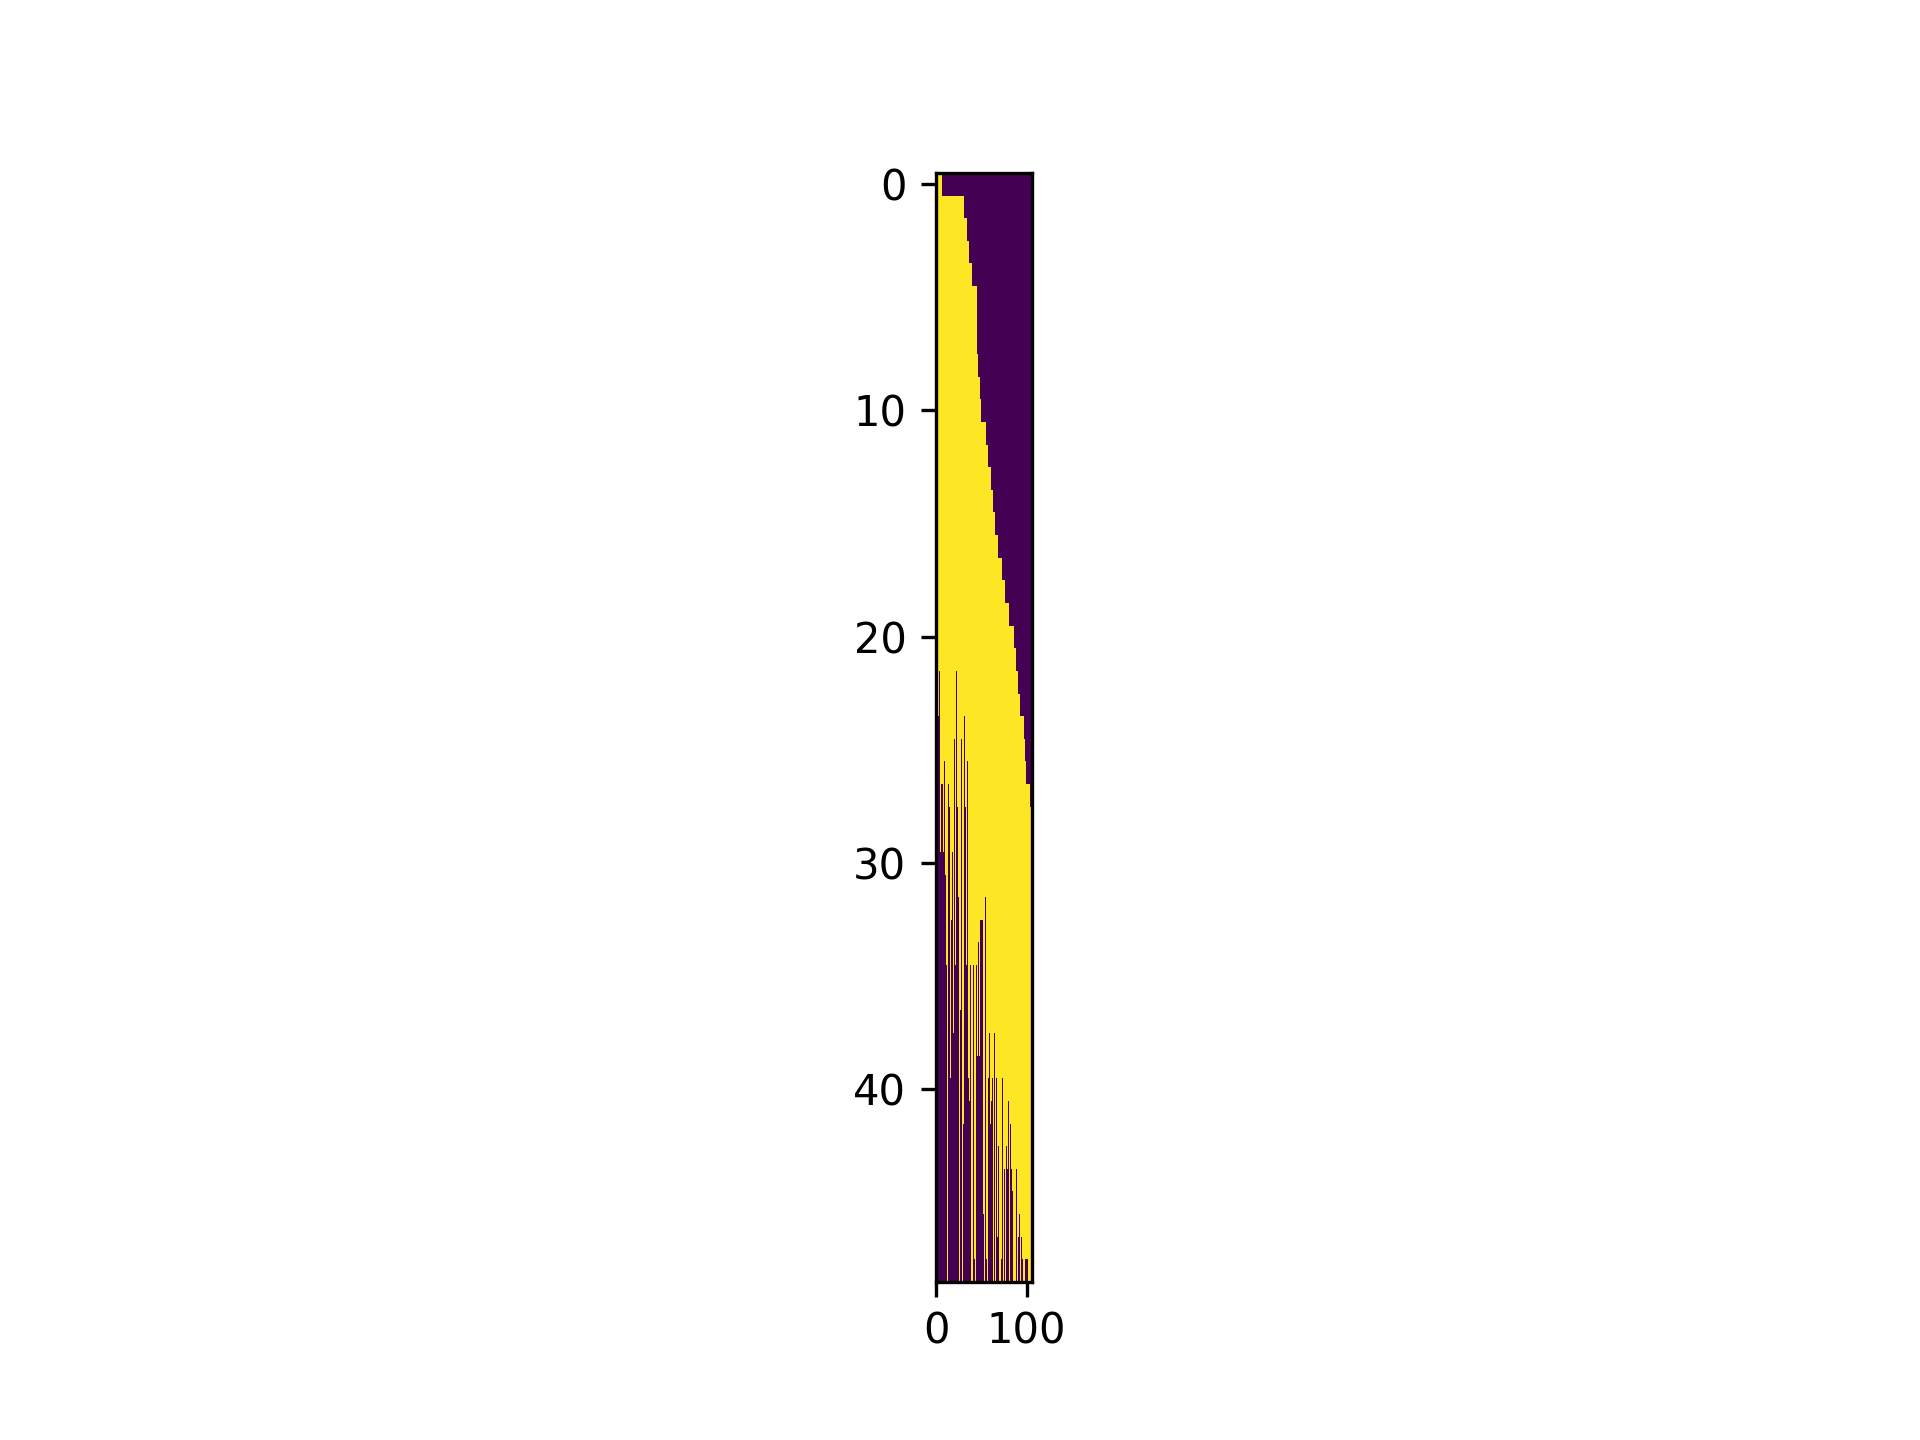
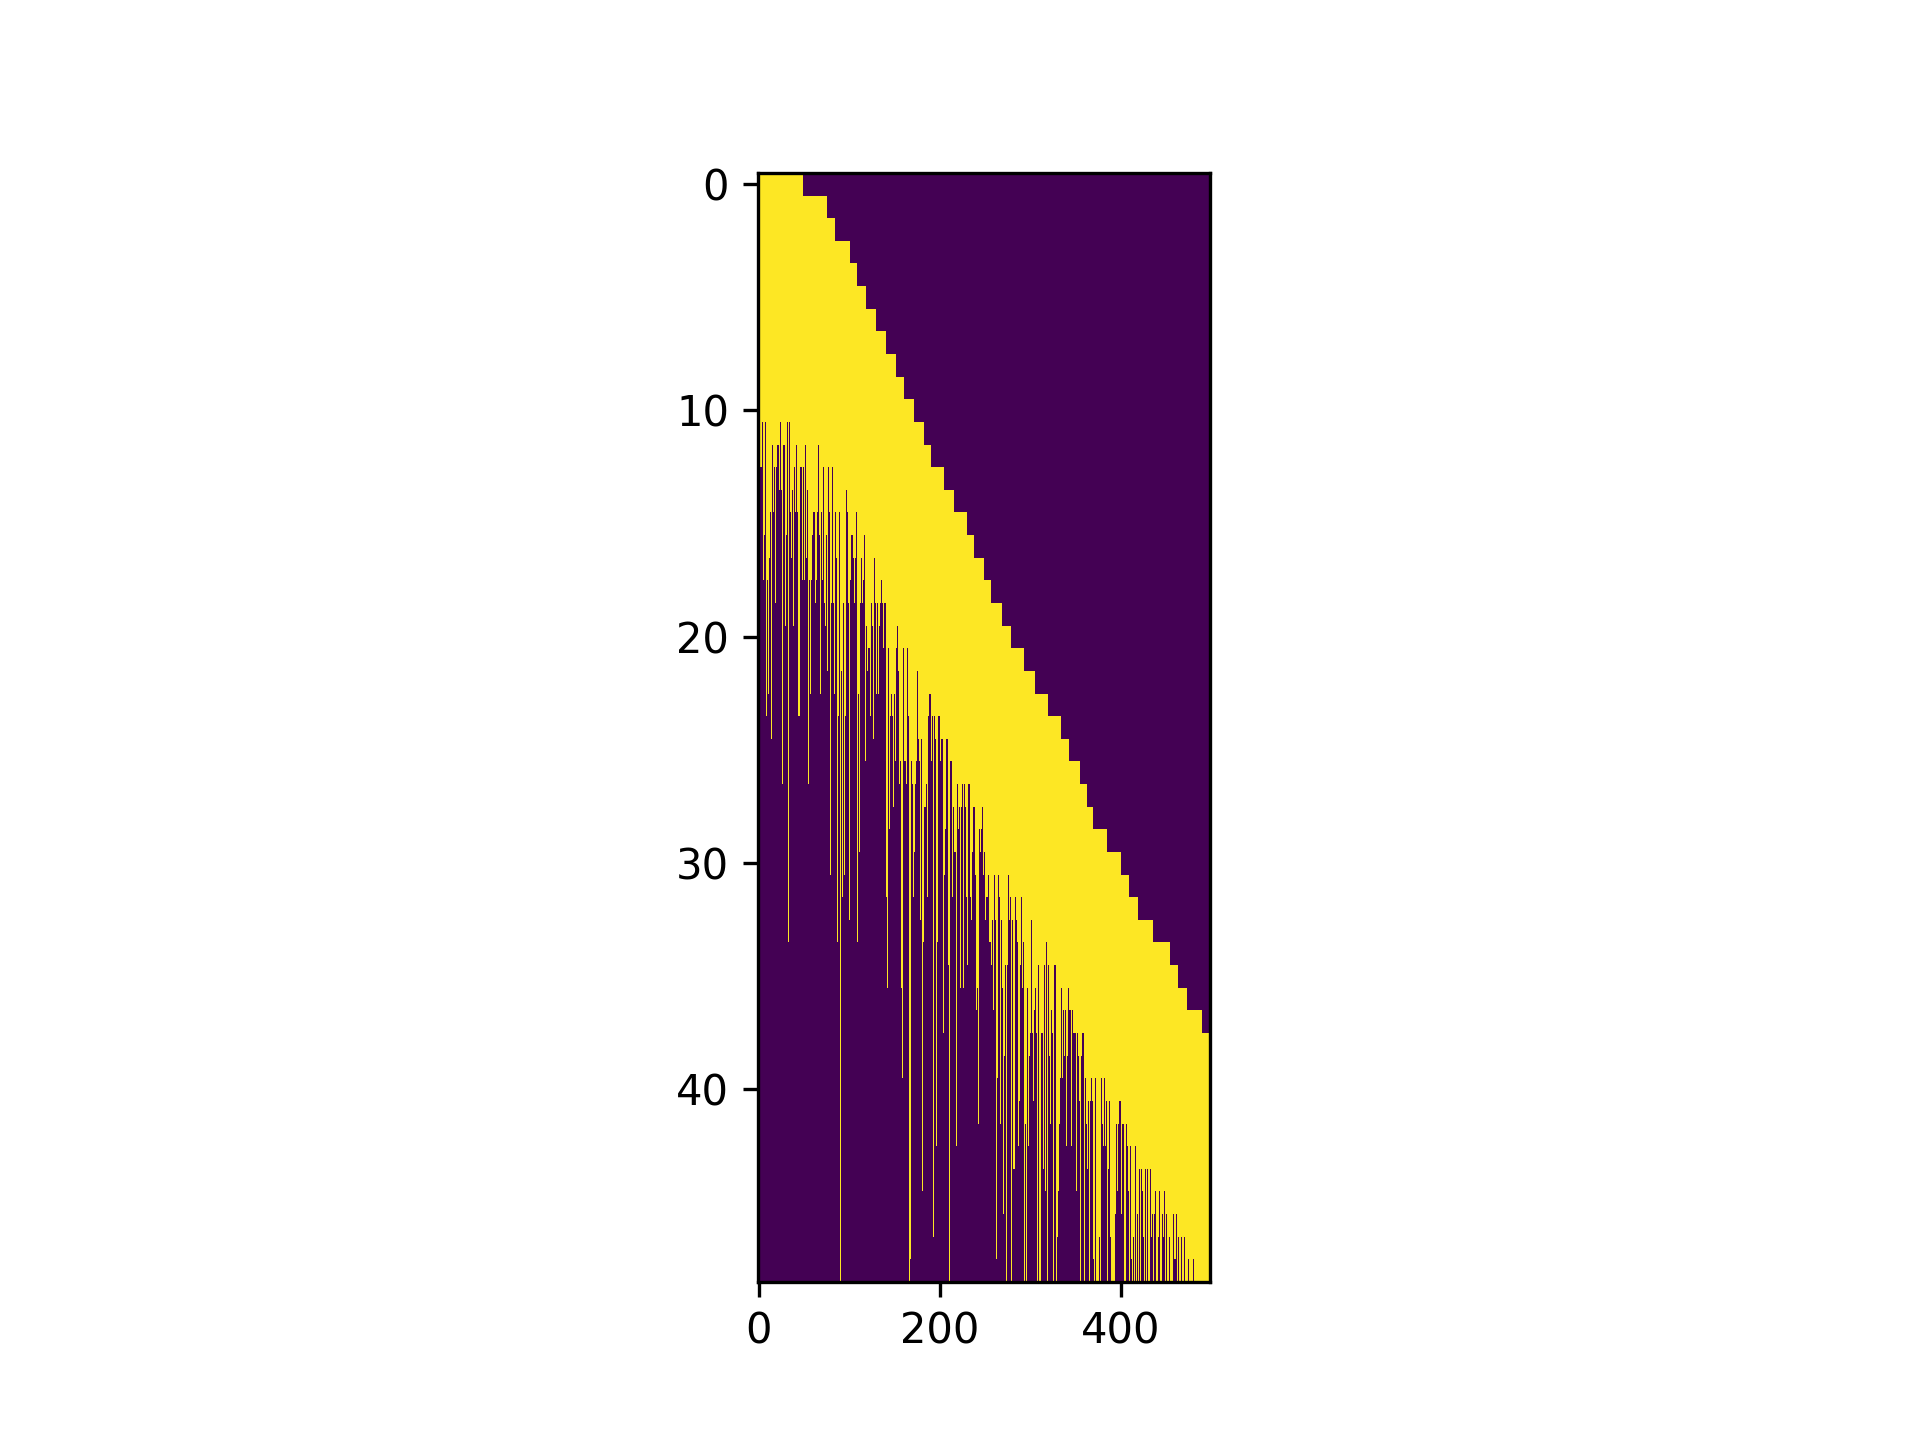
Chaining

Changed region(s): [[0.3438, 0.0938, 0.6562, 0.9375]]

diff --git a/Assignment_2/chaining.py b/Assignment_2/chaining.py
@@ -4,29 +4,38 @@ from tqdm import tqdm
 import matplotlib.pyplot as plt
 from glob import glob
 from structure_from_motion import structure_from_motion
+from math import *
 
 
 def chaining(images):
     n_images = len(images)
-    pvm = np.zeros((n_images * 2, n_images * 20))  # The Point view matrix
+    pvm = np.zeros((n_images * 2, n_images * 40))  # The Point view matrix
 
-    orb = cv2.ORB_create(nfeatures=2000, nlevels=1, scaleFactor=1.2, patchSize=25, edgeThreshold=25)
-    bf = cv2.BFMatcher(cv2.NORM_HAMMING2, crossCheck=True)
+    orb = cv2.ORB_create(nfeatures=1000, nlevels=2, scaleFactor=1.2, patchSize=22, edgeThreshold=22)
+    bf = cv2.BFMatcher(cv2.NORM_HAMMING)
 
-    def cast_points(xl):
-        return [(int(x.pt[0]), int(x.pt[1])) for x in xl]
+    def spatial_thres(match_list):
+        def _cast(x):
+            return int(x.pt[0]), int(x.pt[1])
+        mind = 10e5
+        for match in match_list:
+            qry, tgt = _cast(last_points[match.queryIdx]), _cast(points[match.trainIdx])
+            eucl = sqrt((qry[0] - tgt[0])**2 + (qry[1] - tgt[1])**2)
+            if eucl < mind:
+                mind = eucl
+                left, right = qry, tgt
+        return left, right
 
     last_points, last_feats = orb.detectAndCompute(images[-1], None)
-
     pivot, last_right_indices = 0, {}
     for i, image in enumerate(tqdm(images)):
         points, feats = orb.detectAndCompute(image, None)
         # plot_points(image, points)
 
-        matches = bf.match(last_feats, feats)
+        match_lists = bf.knnMatch(last_feats, feats, k=4)
+        matches = map(spatial_thres, match_lists)
         new_right_indices = {}
-        for m in matches:
-            left_pt, right_pt = cast_points([last_points[m.queryIdx], points[m.trainIdx]])
+        for left_pt, right_pt in matches:
             idx = last_right_indices.get(left_pt, pivot)
             if left_pt not in last_right_indices:
                 pivot += 1
@@ -40,7 +49,7 @@ def chaining(images):
             pvm = np.hstack((pvm, np.zeros((n_images * 2, (n_images - i) * 40))))
 
     # Filter PVM
-    cols = (pvm > 0).sum(axis=0) > 10
+    cols = (pvm > 0).sum(axis=0) > 20
     pvm = pvm[:, cols]
     return pvm
 
@@ -76,7 +85,8 @@ def plot_pvm_points(image, pvm):
 def main():
     images = [cv2.imread(image) for image in sorted(glob("Data/House/*.png"))]
     pvm = chaining(images)
-    # plot_pvm_points(images[0], pvm)
+    #plot_pvm(pvm)
+    #plot_pvm_points(images[0], pvm)
     structure_from_motion(pvm, 3)
 
 
